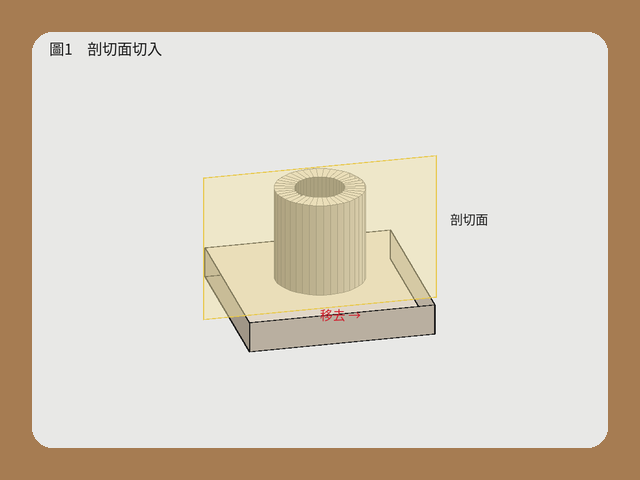
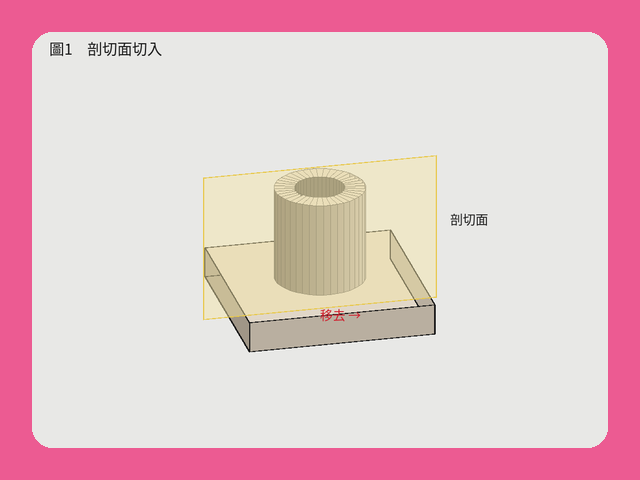
Use pink plate for section-view card like leverage (#27)
Set tile-section and the baked card border to #EC5B92, the same plate as 槓桿應用.

Changed region(s): [[0.0, 0.0, 1.0, 1.0]]

diff --git a/index.html b/index.html
@@ -10,7 +10,7 @@
   <link rel="preconnect" href="https://fonts.googleapis.com" />
   <link rel="preconnect" href="https://fonts.gstatic.com" crossorigin />
   <link href="https://fonts.googleapis.com/css2?family=Noto+Sans+TC:wght@400;500;700;900&display=swap" rel="stylesheet" />
-  <link rel="stylesheet" href="tokens.css?v=20261030a" />
+  <link rel="stylesheet" href="tokens.css?v=20261030b" />
   <style>
     * { box-sizing: border-box; margin: 0; padding: 0; }
     html { scroll-behavior: smooth; }
@@ -412,7 +412,7 @@
       </a>
 <a class="card" href="https://dat-fgss.github.io/section-view/" target="_blank" rel="noopener">
         <div class="card-face tile-section">
-          <img src="assets/cards/card_section-view.png?v=20261030a" alt="" />
+          <img src="assets/cards/card_section-view.png?v=20261030b" alt="" />
         </div>
         <div class="card-meta">
           <h3>剖切圖（剖面視圖）</h3>

diff --git a/tokens.css b/tokens.css
@@ -40,8 +40,8 @@
   --tile-kalimba: #EB9F54;
   /* Activities — blue candy plate matching card_tech-art-show.png */
   --tile-activity: #5B7DB1;
-  /* Section view — warm brown plate baked into card_section-view.png */
-  --tile-section: #A67C52;
+  /* Section view — same pink plate as leverage (tile-3dprint / card_07) */
+  --tile-section: #EC5B92;
 
   /* CTA (hero button — coral energy like reference) */
   --cta: #E85A4F;
